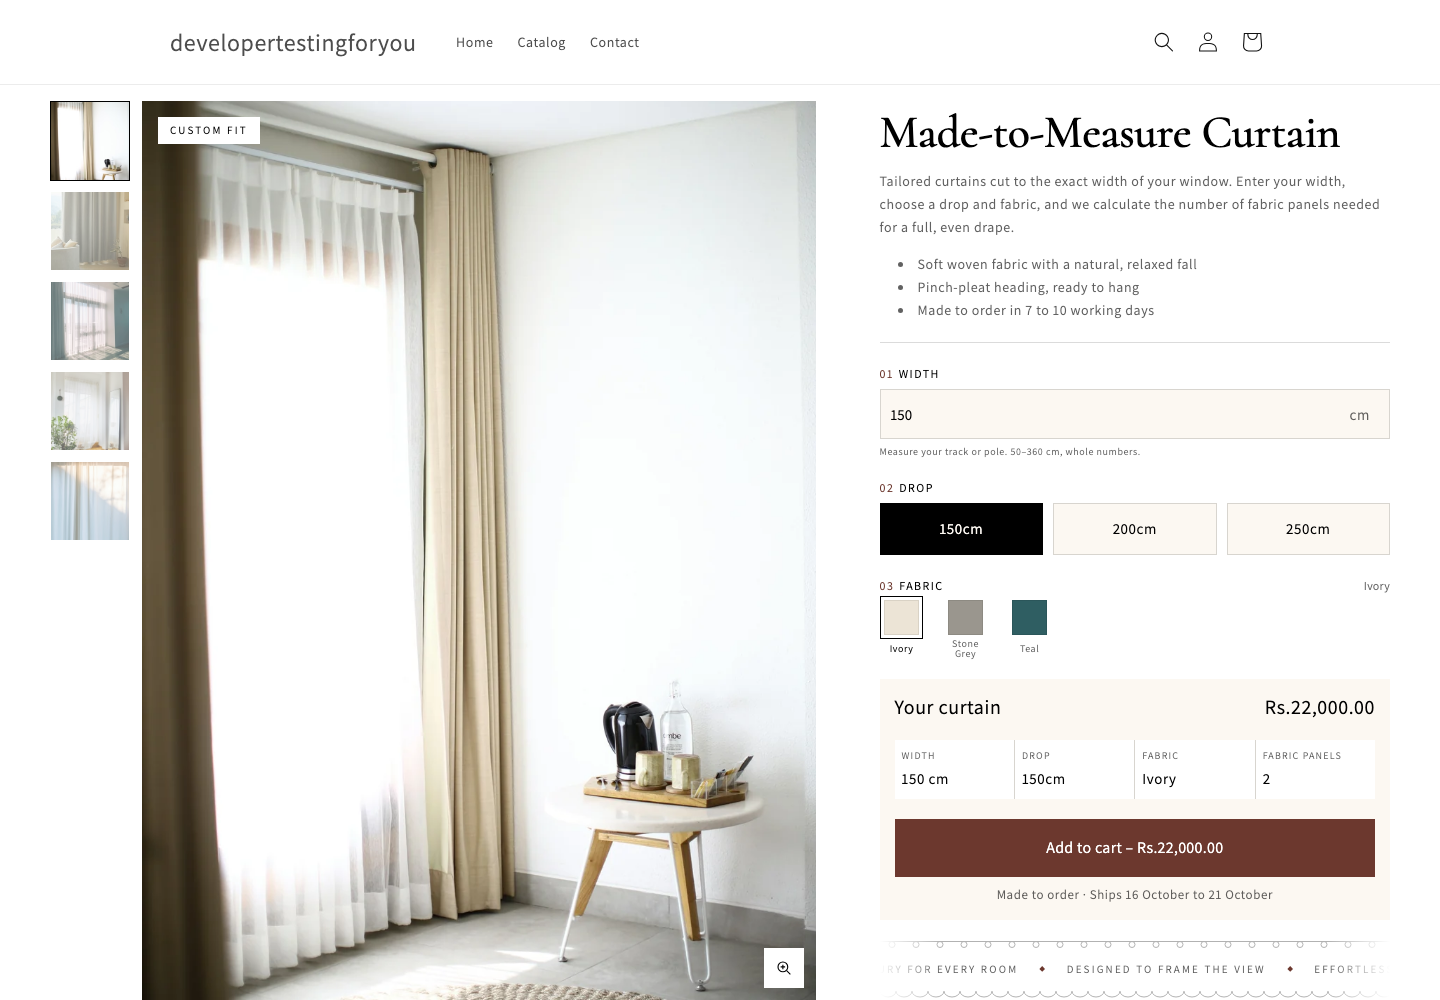
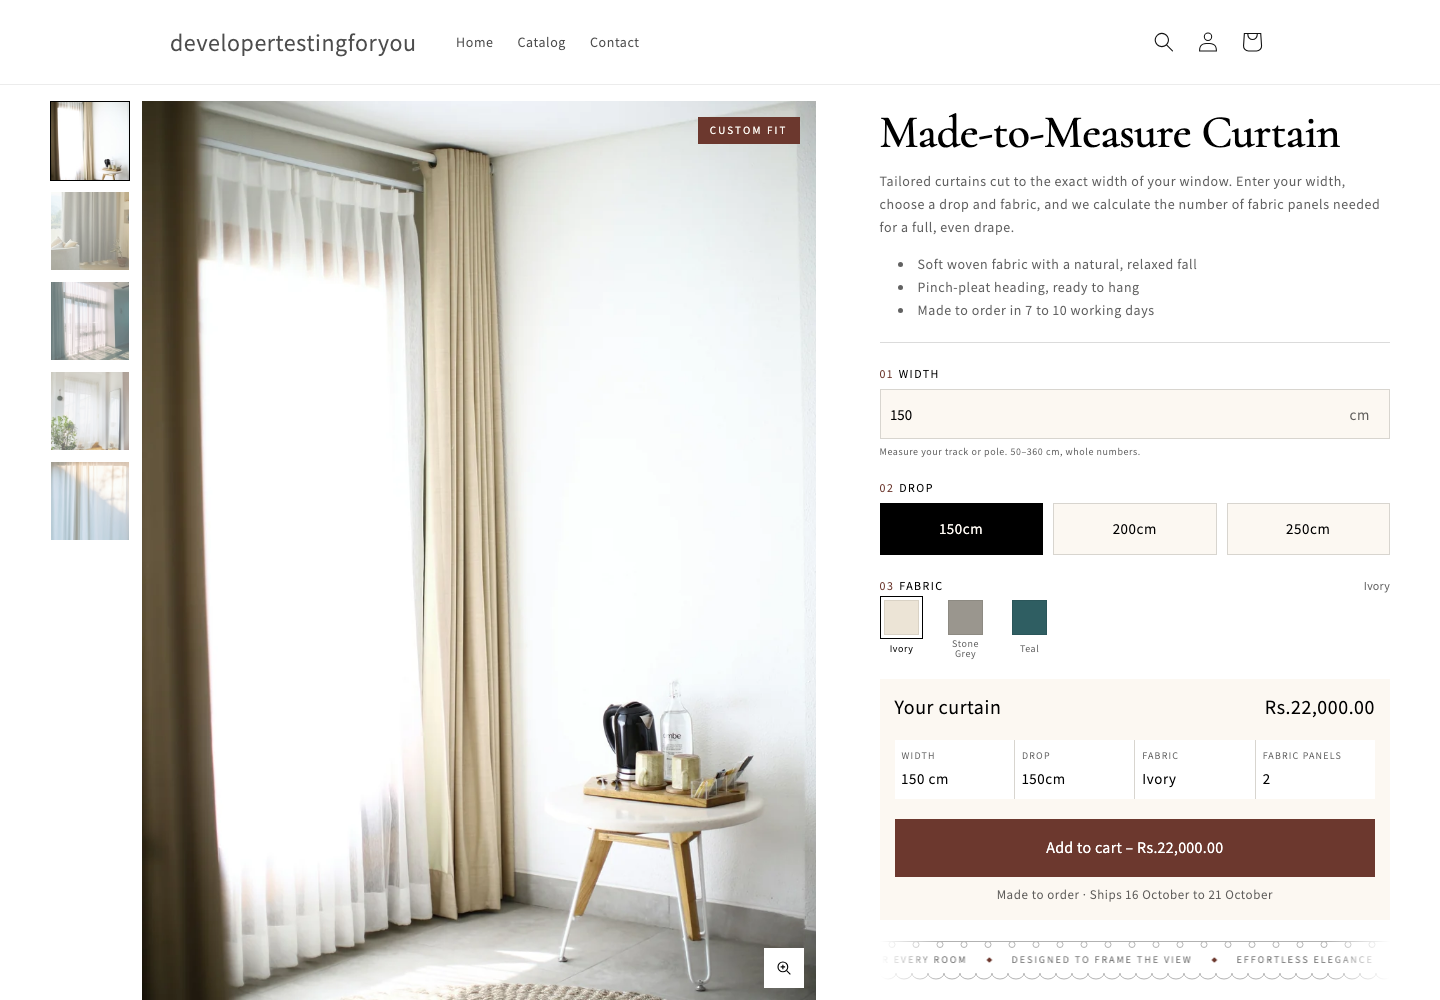
Tighten the mobile gallery and run it to the right screen edge

Changed region(s): [[0.625, 0.961, 0.9375, 1.0], [0.4688, 0.093, 0.5625, 0.155], [0.0938, 0.093, 0.1875, 0.155]]

diff --git a/assets/curtain-configurator.css b/assets/curtain-configurator.css
@@ -900,8 +900,11 @@ curtain-configurator :focus-visible {
     padding-inline: 1.6rem;
   }
 
+  /* The negative margin cancels the container's right padding so the gallery runs to the screen edge. */
   .cc__gallery {
     position: static;
+    gap: 0.6rem;
+    margin-right: -1.6rem;
   }
 
   .cc__gallery--thumbs {
@@ -915,6 +918,7 @@ curtain-configurator :focus-visible {
   .cc__thumbs {
     grid-row: 2;
     flex-direction: row;
+    gap: 0.6rem;
     height: auto;
     min-height: 0;
     overflow-x: auto;

diff --git a/README.md b/README.md
@@ -241,7 +241,7 @@ The step numbers 01, 02 and 03 come from a CSS counter, so they follow the block
 **Delivery dates.** The note in the add to cart block can contain `[start]` and `[end]`. The script fills them with dates counted from today, for example "Made to order · Ships 16 October to 21 October". The earliest and latest day counts are settings, and weekends can be skipped. The dates are worked out in the browser, because Shopify may serve a cached page rendered on an earlier day.
 
 **Section settings.**
-- **Gallery:** image ratio, a badge on the first image ("Custom Fit" by default, blank to hide), and image zoom. On desktop the gallery takes 60% of the width and the product details 40%. The main image fills the screen below the header, with thumbnails in a column on its left. On tablet and mobile the ratio applies, and on mobile the thumbnails move under the image.
+- **Gallery:** image ratio, a badge on the first image ("Custom Fit" by default, blank to hide), and image zoom. On desktop the gallery takes 60% of the width and the product details 40%. The main image fills the screen below the header, with thumbnails in a column on its left. On tablet and mobile the ratio applies. On mobile the thumbnails move under the image, the gaps tighten to 6px, and the gallery runs to the right edge of the screen.
 
 **Image zoom.** On desktop, hovering the main image shows a 2.5x magnified copy that follows the pointer. On touch screens, a tap zooms in at that point, dragging pans, and a second tap zooms out. A magnifier button in the corner toggles zoom for keyboard and touch users, and Escape closes it. The magnified copy is a 2400px version of the image, loaded only when zoom is first used.
 - **Configuration:** default width, and the names of the Color, Drop and Panels options.
@@ -252,7 +252,7 @@ The section only appears on product templates. It shows a setup notice in the ed
 
 ## Testing
 
-`tests/e2e/run.mjs` runs 64 checks against a live preview:
+`tests/e2e/run.mjs` runs 65 checks against a live preview:
 
 - **Rendering:** no Panels control on the page, and no Dawn product form.
 - **Pricing:** price and panel count at every tier boundary, from 50 to 360 cm.
